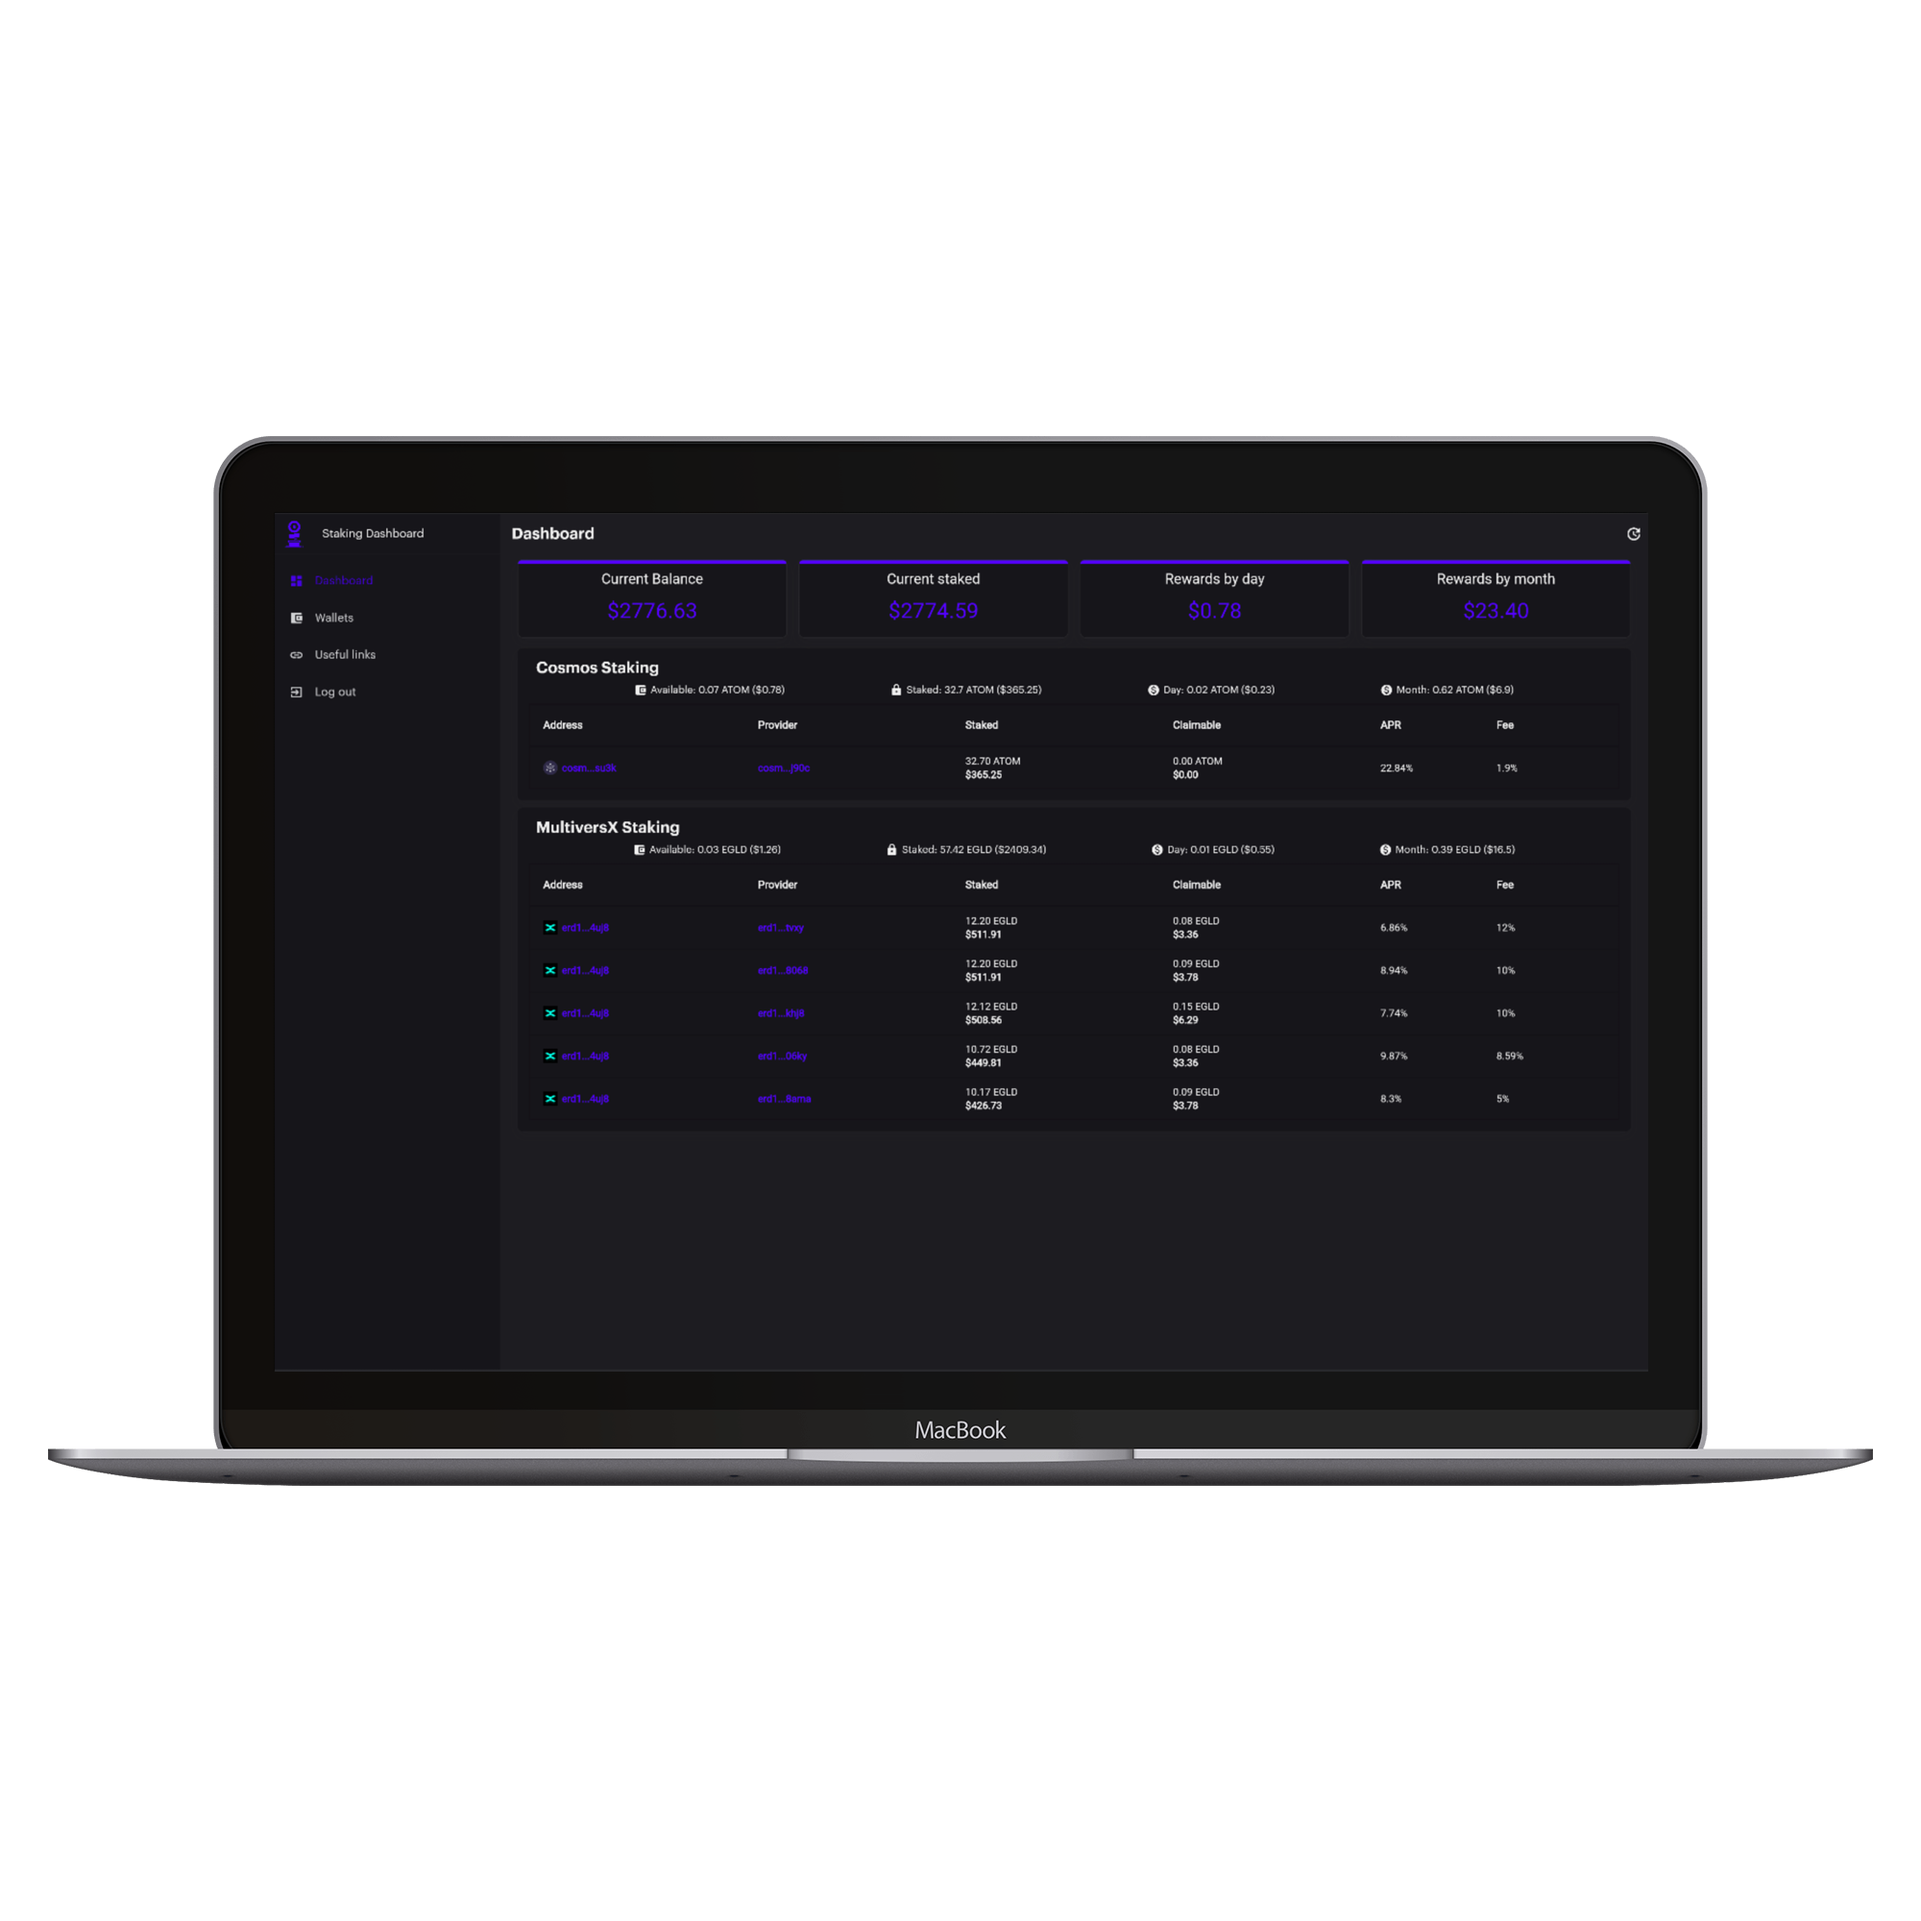
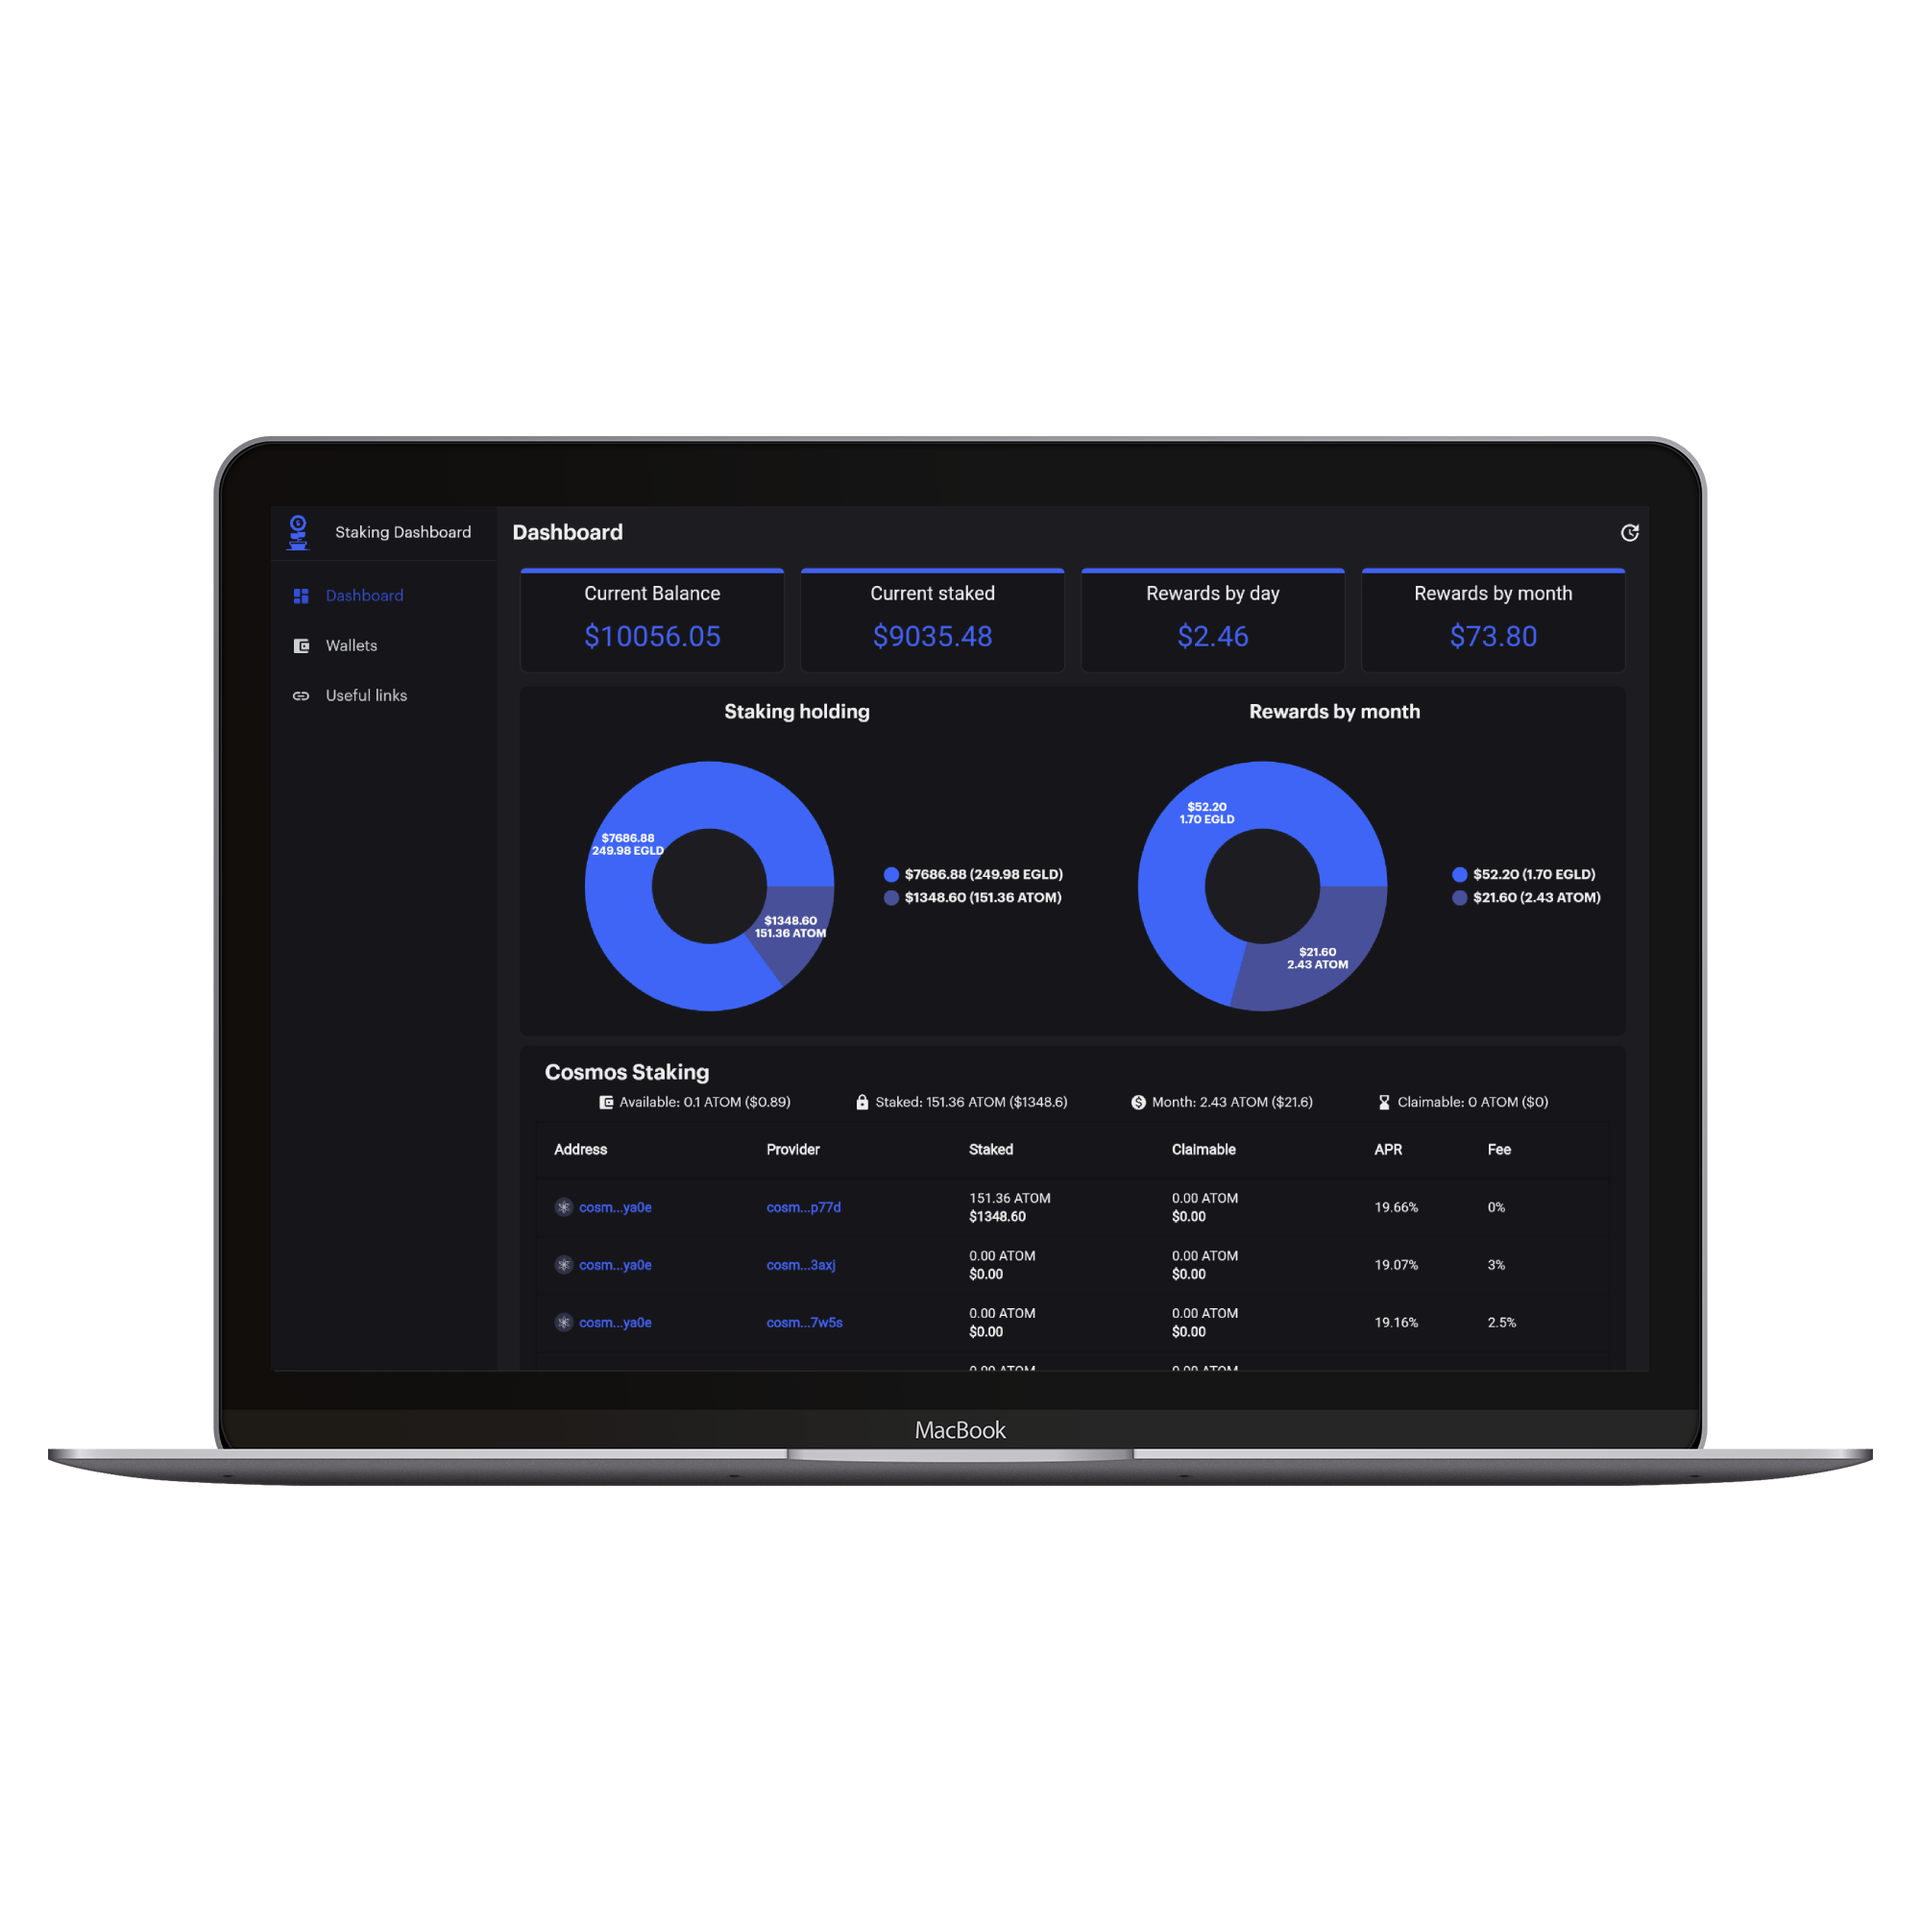
update landing page for 2.0.0 version

diff --git a/dist/index.html b/dist/index.html
@@ -121,7 +121,7 @@
                                     <div class="text-center">
                                         <i class="bi-safe icon-feature text-gradient d-block mb-3"></i>
                                         <h3 class="font-alt">Secure and Private</h3>
-                                        <p class="text-muted mb-0">your staking delegation data is safe and secure with us</p>
+                                        <p class="text-muted mb-0">Wallet stored locally, no back-end for utmost security and privacy</p>
                                     </div>
                                 </div>
                                 <div class="col-md-6">

diff --git a/README.md b/README.md
@@ -22,14 +22,12 @@ Dashboard app with Flutter that allows you to keep track of your different crypt
 
 ### ✨ Features
 
-- [x] Create account with mail/password
-- [x] Login with mail/password
-- [ ] Forgot password
 - [x] Add wallet
 - [x] Delete wallet
+- [ ] Add raw data per crypto
 - [x] Display wallet data
 - [x] Display blockchain data
-- [ ] Display blockchain chart
+- [x] Display staking chart
 
 ### 📸 Screenshots
 
